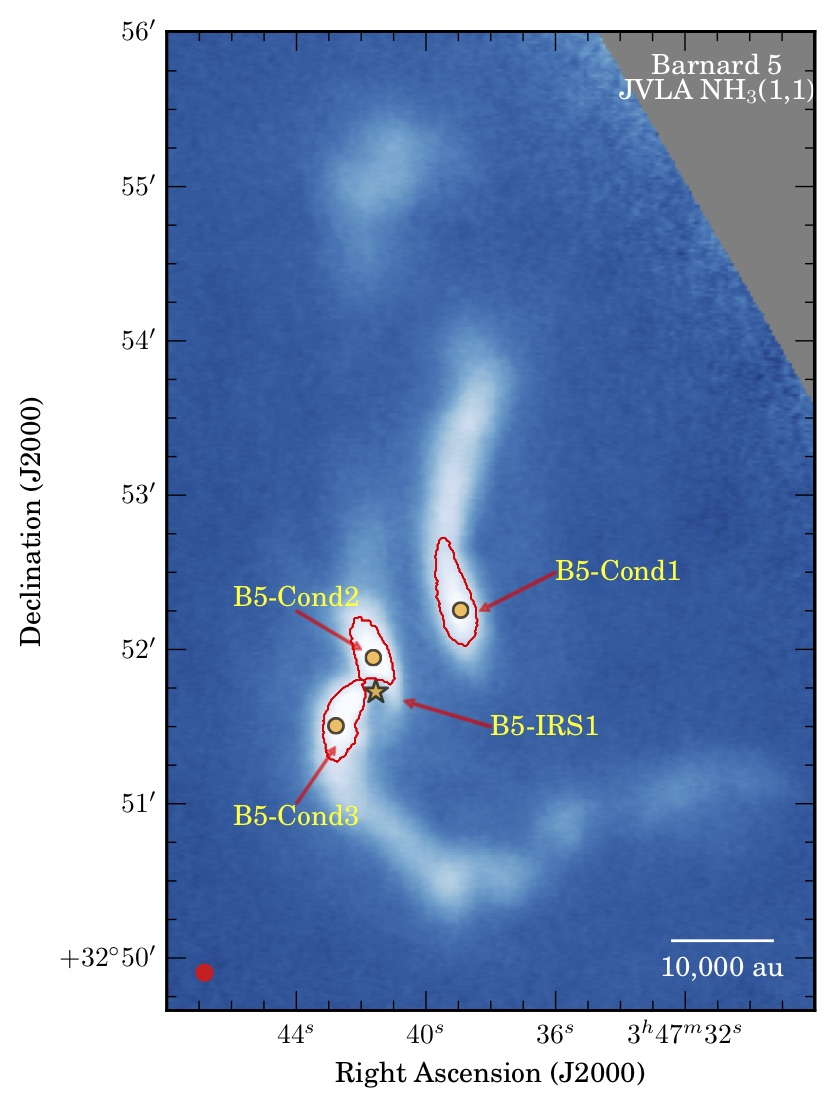
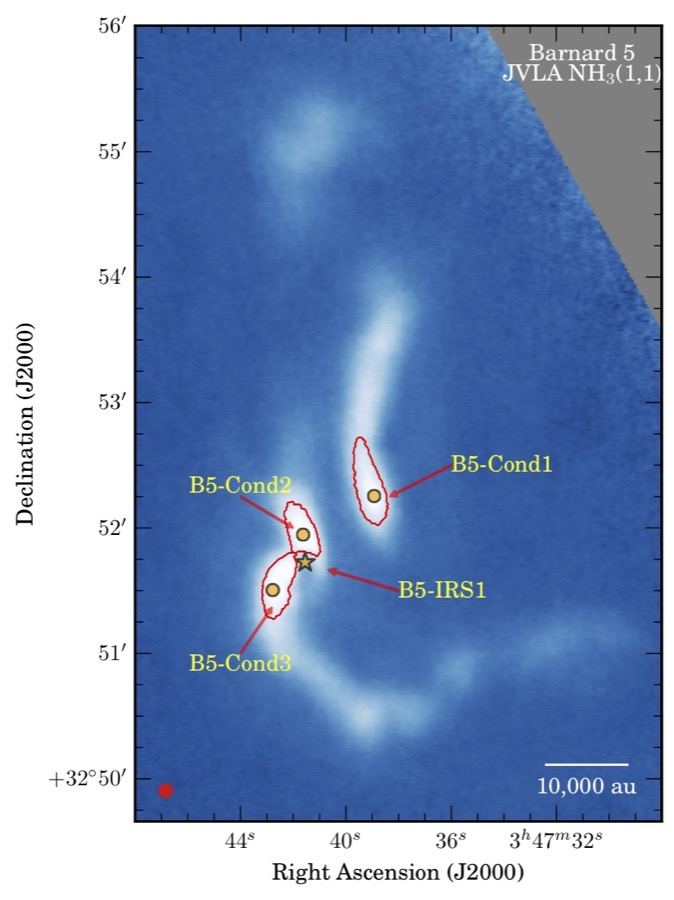
Update index.html and add new images for research section

diff --git a/index.html b/index.html
@@ -30,5 +30,122 @@
     m=s.getElementsByTagName(o)[0];a.async=1;a.src=g;m.parentNode.insertBefore(a,m)
     })(window,document,'script','https://www.google-analytics.com/analytics.js','ga');
   </script>
+  <style>
+    .research-topics {
+      margin: 0 0 1rem;
+      padding: .75rem 1rem;
+      border: 1px solid #dcdcdc;
+      border-radius: .25rem;
+      background: #f8fafc;
+    }
+    .research-topics-title {
+      margin: 0 0 .5rem;
+      font-family: Roboto,Helvetica,Arial,sans-serif;
+      font-size: .9375rem;
+      font-weight: 500;
+    }
+    .research-topics-list {
+      display: flex;
+      flex-wrap: wrap;
+      gap: .25rem 1rem;
+      list-style: none;
+      margin: 0;
+      padding: 0;
+    }
+    .research-topics-list a {
+      border-bottom: none;
+      text-decoration: underline;
+      text-underline-offset: .1em;
+    }
+    app-research .section {
+      scroll-margin-top: 4.5rem;
+    }
+  </style>
+  <script>
+    (function () {
+      function slugify(value) {
+        return value
+          .toLowerCase()
+          .trim()
+          .replace(/[^a-z0-9]+/g, '-')
+          .replace(/^-+|-+$/g, '');
+      }
+
+      function getSectionTitle(heading) {
+        var titleSpan = heading.querySelector('span:not(.subtitle)');
+        return titleSpan ? titleSpan.textContent.trim() : heading.textContent.trim();
+      }
+
+      function renderResearchTopicLinks() {
+        var researchRoot = document.querySelector('app-research');
+        if (!researchRoot) return;
+
+        var sections = Array.prototype.slice.call(
+          researchRoot.querySelectorAll(':scope > div.section')
+        );
+        if (!sections.length) return;
+
+        var items = [];
+        sections.forEach(function (section, index) {
+          var heading = section.querySelector('h4');
+          if (!heading) return;
+          var title = getSectionTitle(heading);
+          if (!title) return;
+
+          var baseId = 'research-topic-' + (slugify(title) || String(index + 1));
+          var sectionId = baseId;
+          var suffix = 2;
+          while (document.getElementById(sectionId) && document.getElementById(sectionId) !== section) {
+            sectionId = baseId + '-' + suffix;
+            suffix += 1;
+          }
+
+          section.id = sectionId;
+          items.push({ id: sectionId, title: title });
+        });
+
+        if (!items.length) return;
+
+        var nav = researchRoot.querySelector(':scope > nav.research-topics');
+        if (!nav) {
+          nav = document.createElement('nav');
+          nav.className = 'research-topics';
+          nav.setAttribute('aria-label', 'Research topics');
+          researchRoot.insertBefore(nav, researchRoot.firstChild);
+        }
+
+        nav.innerHTML = '';
+
+        var title = document.createElement('p');
+        title.className = 'research-topics-title';
+        title.textContent = 'Jump to topic';
+        nav.appendChild(title);
+
+        var list = document.createElement('ul');
+        list.className = 'research-topics-list';
+        items.forEach(function (item) {
+          var listItem = document.createElement('li');
+          var link = document.createElement('a');
+          link.href = '#' + item.id;
+          link.textContent = item.title;
+          listItem.appendChild(link);
+          list.appendChild(listItem);
+        });
+
+        nav.appendChild(list);
+      }
+
+      function scheduleRender() {
+        window.requestAnimationFrame(renderResearchTopicLinks);
+      }
+
+      document.addEventListener('DOMContentLoaded', scheduleRender);
+      window.addEventListener('popstate', scheduleRender);
+      window.addEventListener('hashchange', scheduleRender);
+
+      var observer = new MutationObserver(scheduleRender);
+      observer.observe(document.body, { childList: true, subtree: true });
+    })();
+  </script>
 <script src="runtime.a8ef3a8272419c2e2c66.js" defer></script><script src="polyfills-es5.22980d2a5e099e9f52bb.js" nomodule defer></script><script src="polyfills.6644c1a7e4571a8fd589.js" defer></script><script src="vendor.1ff9f6544730214bffd9.js" defer></script><script src="main.dfd99b42e2e557f91536.js" defer></script></body>
 </html>
